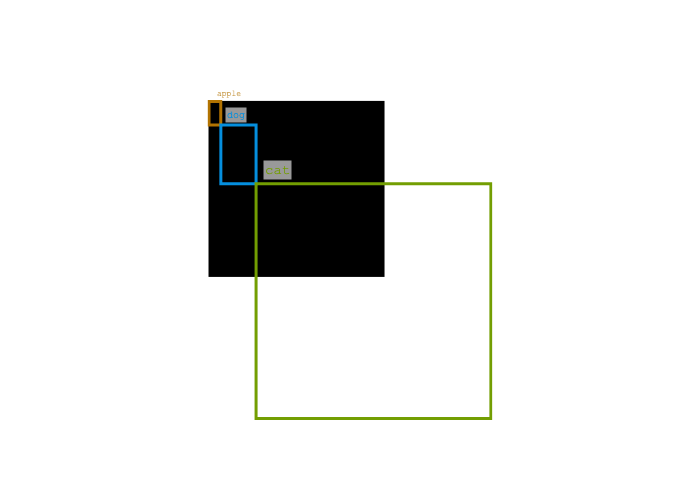
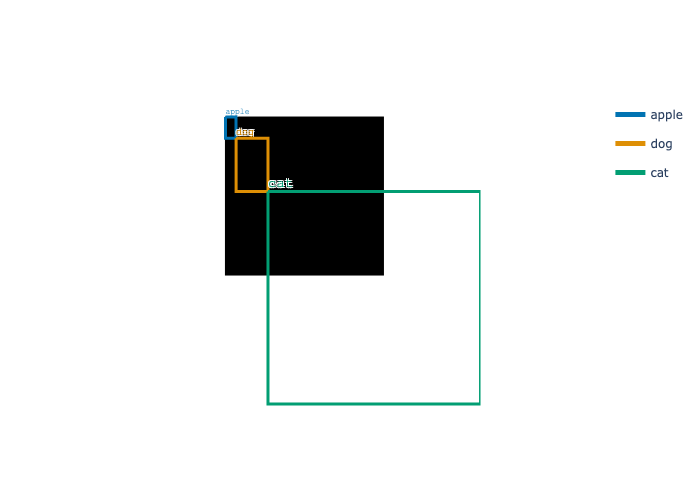
update unit tests for new bbox visualization

diff --git a/fastestimator/util/img_data.py b/fastestimator/util/img_data.py
@@ -370,13 +370,14 @@ class ImageDisplay(Display):
                     # Add label text onto image
                     font_size = max(8, min(14, int(width // len(label or ' '))))
                     fig.add_trace(Scatter(x=[x0],
-                                          y=[y0],
+                                          y=[y0-1],  # A slight offset to help text not run in to bbox
                                           mode='text',
                                           text='<span style="text-shadow: -1px 1px 0 #FFFFFF, '
                                                '1px 1px 0px #FFFFFF, 1px -1px 0px #FFFFFF, -1px -1px 0px #FFFFFF;">'
                                                f'{label}</span>',
                                           textposition="top right",
                                           legendgroup=f'bb_{label}',
+                                          hoverinfo='skip',
                                           textfont={'size': font_size,
                                                     'color': color,
                                                     'family': 'monospace'},

diff --git a/test/PR_test/integration_test/util/test_util.py b/test/PR_test/integration_test/util/test_util.py
@@ -57,6 +57,12 @@ class TestShowImage(unittest.TestCase):
 
         # Now we can save it to a numpy array.
         obj1 = fig_to_rgb_array(fig.prepare())
+
+        # If the target output image has changed, you can regenerate it with:
+        # from PIL import Image
+        # im = Image.fromarray(obj1)
+        # im.save("../resources/test.png")
+
         obj2 = self.color_img_ans
         self.assertTrue(check_img_similar(obj1, obj2))
 
